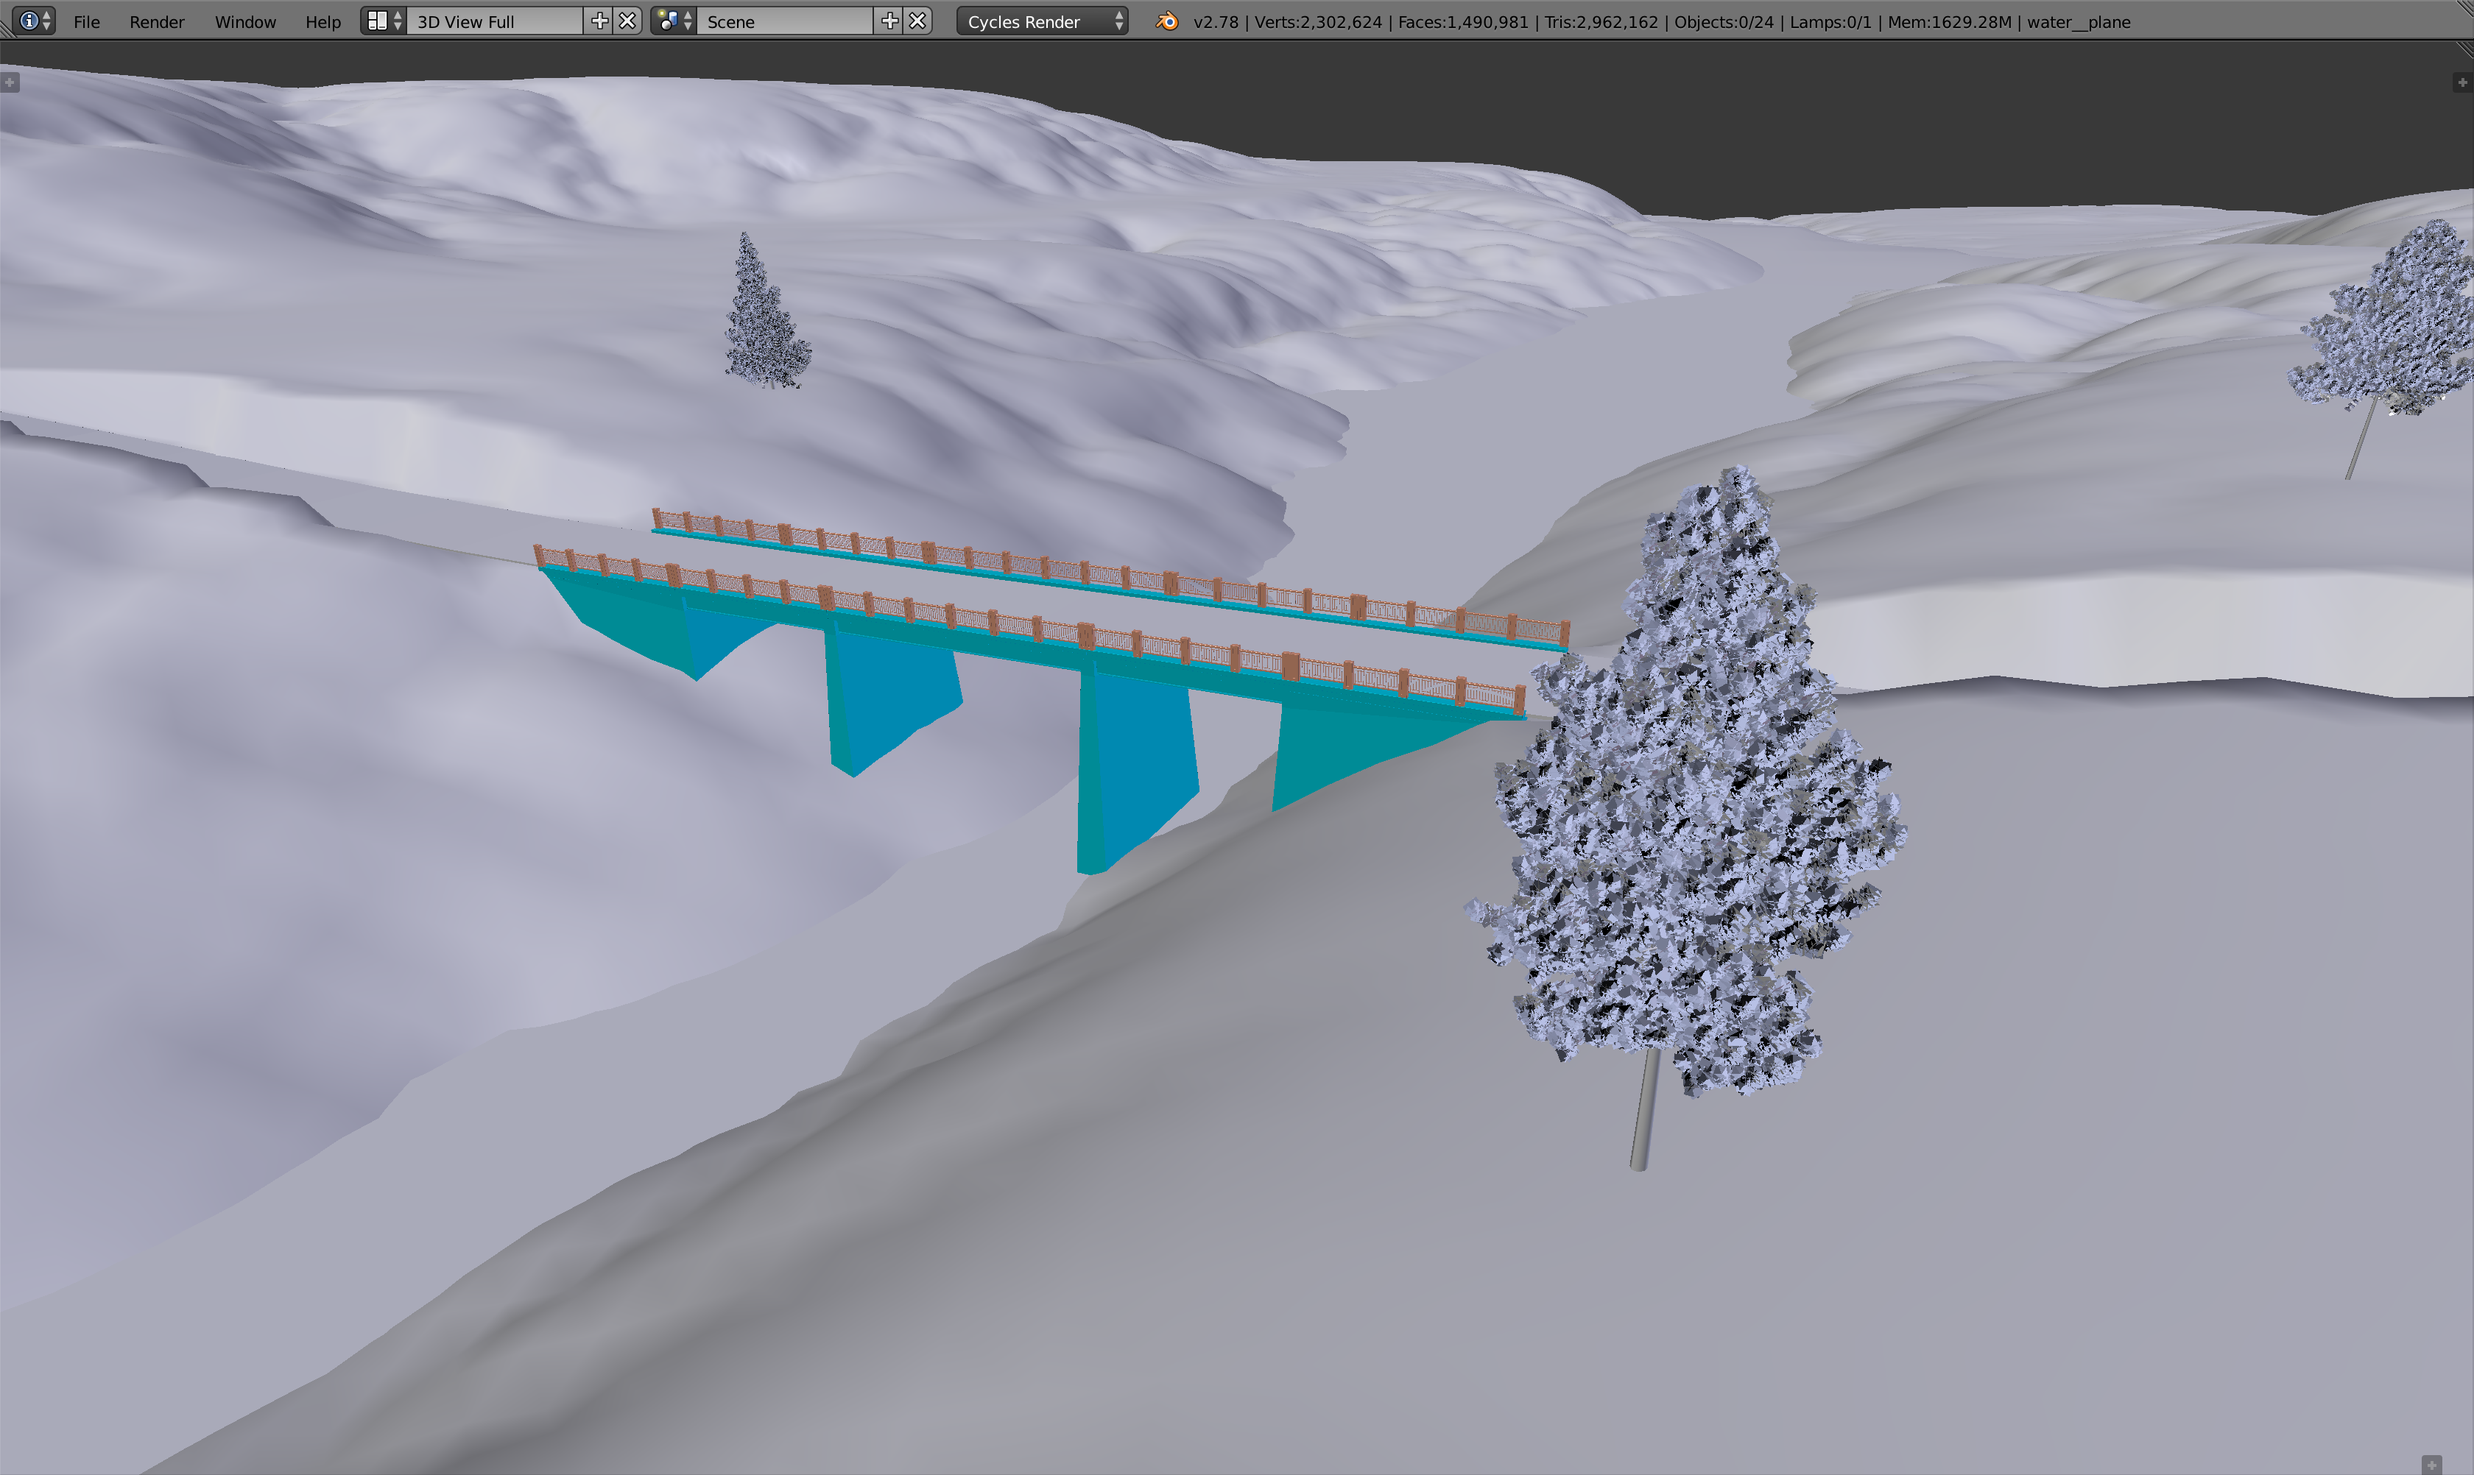
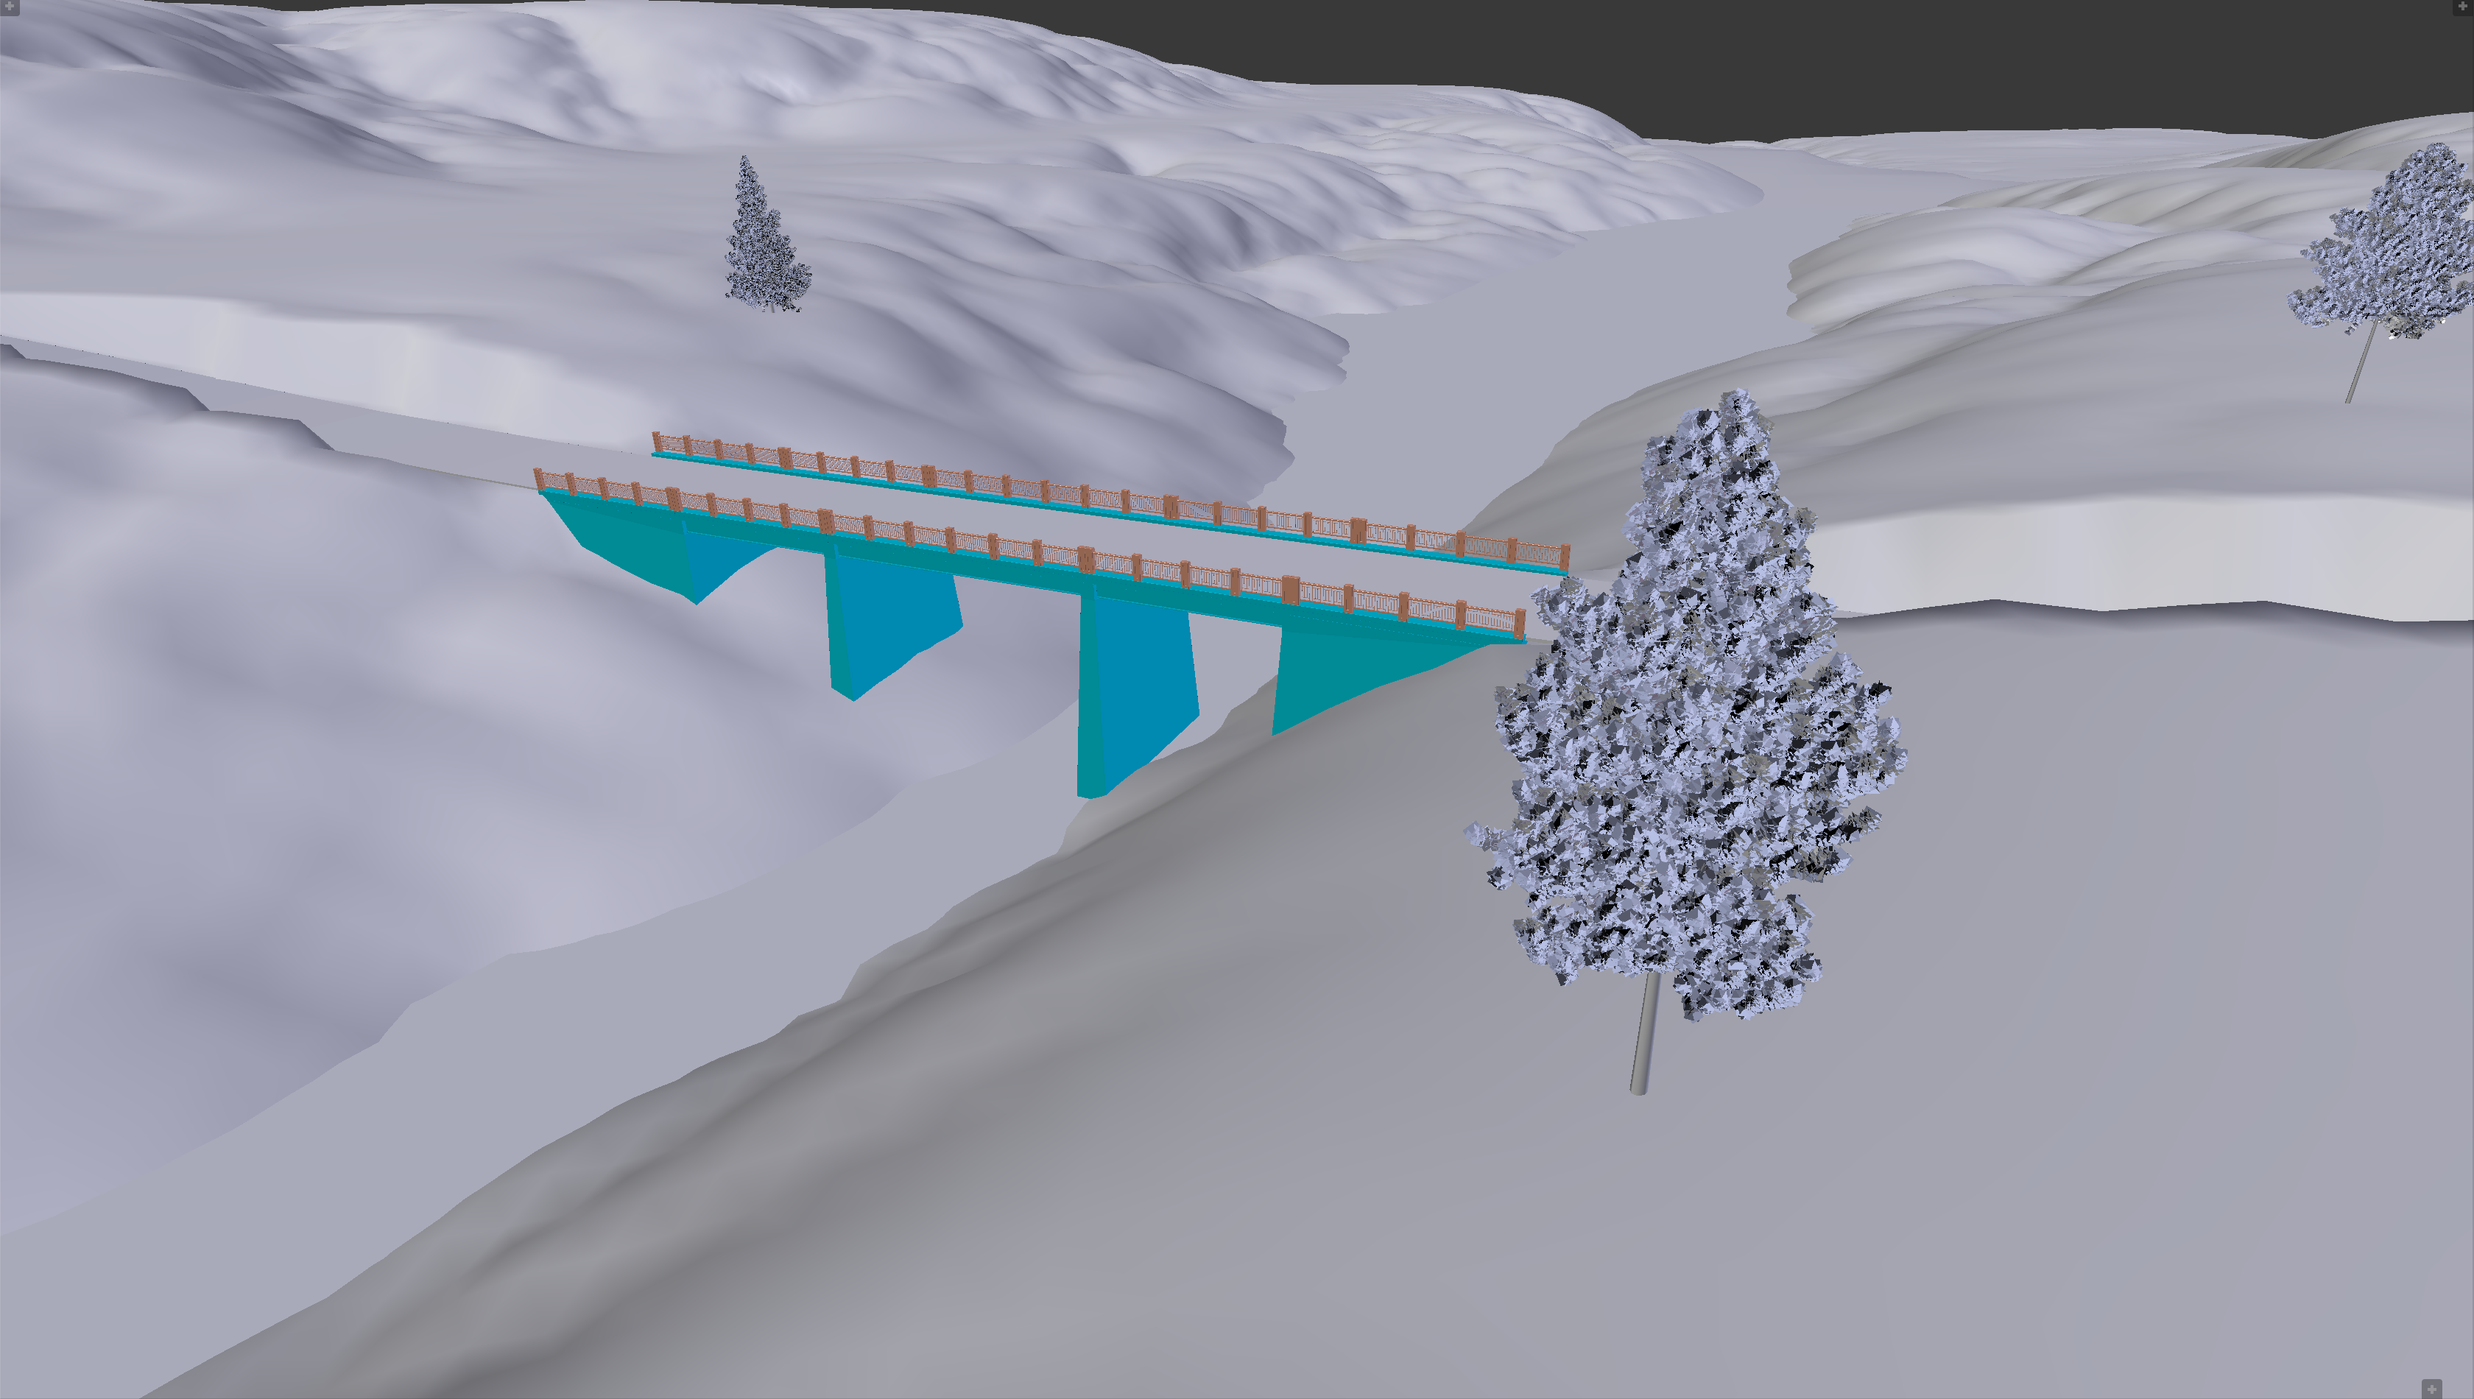
Crop comparison photos and add figure

diff --git a/bridgeview.tex b/bridgeview.tex
@@ -136,16 +136,19 @@
 \end{frame}
 
 \begin{frame}{Models}
-  Start with models from various sources and prepare for rendering.
+  Start with models from various sources and prepare for
+  rendering. Add landscape, roads and vegetation.
 
-  Need to add landscape, roads and vegetation.
-
-  Models prepared and rendered using Blender.
+  \begin{figure}[h]\centering
+    \include{aw}
+  \end{figure}
 \end{frame}
 
 \begin{frame}[plain]
   \includegraphics[width=\textwidth]{blender.png}
 \end{frame}
+
+
 
 \begin{frame}{TODO}
   Figures!

diff --git a/aw.tex b/aw.tex
@@ -1,0 +1,16 @@
+\begin{tikzpicture}
+  [var/.style={circle},
+    lab/.style={rectangle,fill=p-box},
+    pre/.style={<-,shorten <=1pt,semithick,draw},
+    post/.style={->,shorten >=1pt,semithick,draw}]
+  
+%  \clip (1.5,-2.5) rectangle (14.5,4.5);
+
+  \node (aws) at (0,0) {%
+    \includegraphics[width=4.5cm]{aw-start.png}
+  };
+  \node (awf) at (6,0) {%
+    \includegraphics[width=4.5cm]{aw-final.png}
+  }
+  edge[pre] (aws);
+\end{tikzpicture}
